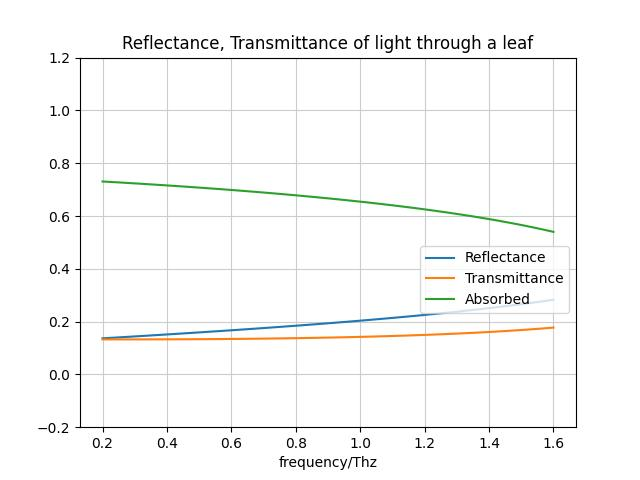
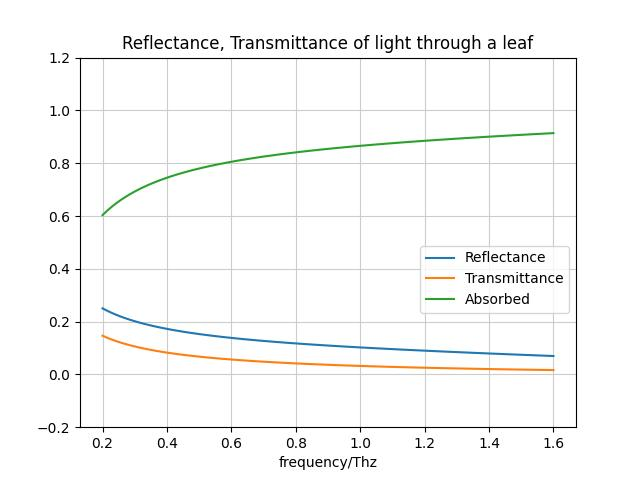
Refactor code

diff --git a/multiplatemodel_THZ.py b/multiplatemodel_THZ.py
@@ -21,79 +21,10 @@ class MultiPlateModel_THZ:
     def __init__(self, N: int, Cab, Cw, Cm):
         "Leaf Structure Parameter"
         self.N = N
-        self.frequency = np.linspace(1.6, 0.2, 100)
-        self.wavelength = 3e8 / (self.frequency * 10e12) * 1000
-        # print(self.wavelength)
-        self.refractive_index_array = np.linspace(2.1, 1.7, 100)
-        self.dry_matter_absorption_coeff = np.linspace(5, 140, 100)
-        self.water_absorption_coeff = np.linspace(100, 300, 100)
-        self.albino_absorption_coeff = np.linspace(50, 200, 100)
-        # self.scatter = abs_scatter(self.frequency, 40 ,)
-        # This k right now is the absorption coefficient.
-        # It is derived from adding:
-        # [(Chlorophyll (a+b) content of leaf) * (Specific absorption coefficient of leaf) +
-        # (Water content of leaf) * (Specific absorption coefficient of leaf) +
-        # (Dry Matter content of leaf) * (Specific absorption coefficient of leaf)] / Leaf Structure Parameter
-        # + Absorption coefficient of albino elementary layer
-        # + Scattering-induced absorption
-        a_k = (
-            Cw * self.water_absorption_coeff  # + Cm * self.dry_matter_absorption_coeff
-        ) / N
-
-        # print(get_tav_THZ(90, self.refractive_index_array, k, self.frequency))
-        # Getting the transmission coefficient k
-        # Should never hit the if statement
-        if np.all(a_k <= 0):
-            k = 1
-        else:
-            k = (1 - a_k) * np.exp(-a_k) + (a_k**2) * exp1(a_k)
-        t1 = get_tav_THZ(90, self.refractive_index_array, a_k, self.wavelength)
-        t2 = get_tav_THZ(40, self.refractive_index_array, a_k, self.wavelength)
-        print(t2)
-        print(t1)
-        x1 = 1 - t1
-        x2 = (t1) ** 2 * (k**2) * (self.refractive_index_array**2 - t1)  # * t2
-        x3 = (t1) ** 2 * k * (self.refractive_index_array**2)  # * t2
-        x4 = (self.refractive_index_array**4) - (k**2) * (
-            (self.refractive_index_array**2 - t1) ** 2
-        )
-        x5 = t2 / t1
-        x6 = x5 * (t1 - 1) + 1 - t2
-
-        "r_90/t_90: Reflectance/Transmitance for remaining plates since light is isotropic in leaf"
-        self.r_90 = x1 + x2 / x4
-        self.t_90 = x3 / x4
-        "r_alpha/t_aplha: Reflectance/Transmitance for first plate"
-        self.r_alpha = x5 * self.r_90 + x6
-        self.t_alpha = x5 * self.t_90
-        # print(f"r_90: {self.r_90}")
-        # print(f"t_90: {self.t_90}")
-        # print(f"r_alpha: {self.r_alpha}")
-        # print(f"t_alpha: {self.t_alpha}")
-
-        self.delta = self._delta()
-        self.alpha = self._alpha()
-        self.beta = self._beta()
-
-        # print(f"beta: {self.beta}")
-        # print(f"delta: {self.delta}")
-        # print(f"alpha: {self.alpha}")
-        self.b = self._b()
-
-        self.s1 = self.r_alpha * (
-            self.alpha * self.b ** (self.N - 1)
-            - (self.alpha**-1) * (self.b ** (1 - self.N))
-        ) + (self.t_alpha * self.t_90 - self.r_alpha * self.r_90) * (
-            self.b ** (self.N - 1) - self.b ** (1 - self.N)
-        )
-
-        self.s2 = self.t_alpha * (self.alpha - self.alpha**-1)
-
-        self.s3 = (
-            self.alpha * (self.b ** (self.N - 1))
-            - (self.alpha**-1) * (self.b ** (1 - self.N))
-            - self.r_90 * (self.b ** (self.N - 1) - self.b ** (1 - self.N))
-        )
+        self.Cab = Cab
+        self.Cw = Cw
+        self.Cm = Cm
+        self.calculate()
 
     def _b(self):
         return (
@@ -114,52 +45,112 @@ class MultiPlateModel_THZ:
     def _delta(self):
         return (self.t_90**2 - self.r_90**2 - 1) ** 2 - (4 * self.r_90**2)
 
-    def reflectance(self):
+    def _reflectance(self):
         return self.s1 / self.s3
 
-    def transmittance(self):
+    def _transmittance(self):
         return self.s2 / self.s3
 
+    def calculate(self):
+        self.frequency = np.linspace(0.2, 1.6, 100)
+        self.wavelength = 3e8 / (self.frequency * 10e12) * 1000
+
+        self.refractive_index_array = np.linspace(2.1, 1.7, 100)
+        self.dry_matter_absorption_coeff = np.linspace(5, 140, 100)
+        self.water_absorption_coeff = np.linspace(100, 300, 100)
+        self.albino_absorption_coeff = np.linspace(50, 200, 100)
+        # self.scatter = abs_scatter(self.frequency, 40 ,)
+        # This a_k is the absorption coefficient.
+        # It is derived from adding:
+        # [(Chlorophyll (a+b) content of leaf) * (Specific absorption coefficient of leaf) +
+        # (Water content of leaf) * (Specific absorption coefficient of leaf) +
+        # (Dry Matter content of leaf) * (Specific absorption coefficient of leaf)] / Leaf Structure Parameter
+        # + Absorption coefficient of albino elementary layer
+        # + Scattering-induced absorption
+        a_k = (
+            self.Cw * self.water_absorption_coeff
+            + self.Cm * self.dry_matter_absorption_coeff
+        ) / self.N
+
+        # Getting the transmission coefficient k
+        # Should never hit the if statement
+        if np.all(a_k <= 0):
+            k = 1
+        else:
+            k = (1 - a_k) * np.exp(-a_k) + (a_k**2) * exp1(a_k)
+        t1 = get_tav_THZ(90, self.refractive_index_array, a_k, self.wavelength)
+        t2 = get_tav_THZ(40, self.refractive_index_array, a_k, self.wavelength)
+
+        x1 = 1 - t1
+        x2 = (t1) ** 2 * (k**2) * (self.refractive_index_array**2 - t1)  # * t2
+        x3 = (t1) ** 2 * k * (self.refractive_index_array**2)  # * t2
+        x4 = (self.refractive_index_array**4) - (k**2) * (
+            (self.refractive_index_array**2 - t1) ** 2
+        )
+        x5 = t2 / t1
+        x6 = x5 * (t1 - 1) + 1 - t2
+
+        "r_90/t_90: Reflectance/Transmitance for remaining plates since light is isotropic in leaf"
+        self.r_90 = x1 + x2 / x4
+        self.t_90 = x3 / x4
+        "r_alpha/t_aplha: Reflectance/Transmitance for first plate"
+        self.r_alpha = x5 * self.r_90 + x6
+        self.t_alpha = x5 * self.t_90
+
+        self.delta = self._delta()
+        self.alpha = self._alpha()
+        self.beta = self._beta()
+
+        self.b = self._b()
+
+        self.s1 = self.r_alpha * (
+            self.alpha * self.b ** (self.N - 1)
+            - (self.alpha**-1) * (self.b ** (1 - self.N))
+        ) + (self.t_alpha * self.t_90 - self.r_alpha * self.r_90) * (
+            self.b ** (self.N - 1) - self.b ** (1 - self.N)
+        )
+
+        self.s2 = self.t_alpha * (self.alpha - self.alpha**-1)
+
+        self.s3 = (
+            self.alpha * (self.b ** (self.N - 1))
+            - (self.alpha**-1) * (self.b ** (1 - self.N))
+            - self.r_90 * (self.b ** (self.N - 1) - self.b ** (1 - self.N))
+        )
+
     def output(self):
-        return [self.frequency, self.reflectance(), self.transmittance()]
+        return [self.frequency, self._reflectance(), self._transmittance()]
+
+    def summary(self, title="test"):
+        plot, axs = plt.subplots()
+        output = self.output()
+        axs.plot(output[0], output[1], label="Reflectance")
+        axs.plot(output[0], output[2], label="Transmittance")
+
+        total = output[1] + output[2]
+        absorbed = 1 - total
+        axs.plot(output[0], absorbed, label="Absorbed")
+
+        axs.set_title(
+            f"Reflectance, Transmittance,Absorbance of light through a {title} leaf"
+        )
+        axs.set_xlabel("frequency/Thz")
+        axs.set_ylabel("")
+        axs.set_ylim(-0.2, 1.2)
+
+        axs.grid(which="both", color=(0.8, 0.8, 0.8))
+        plt.legend(loc=(1.04, 0.5))
+        plt.legend(bbox_to_anchor=(1, 0.4), loc="center right")
+        path = "output " + title + ".jpg"
+        plot.savefig(path)
 
 
 if __name__ == "__main__":
     # model = MultiPlateModel_THZ(1.518, 58, 0.00131, 0.003662)
-    model = MultiPlateModel_THZ(1.2, 30, 0.0015, 0.01)
+    # model = MultiPlateModel_THZ(1.2, 30, 0.0015, 0.01)
     # model = MultiPlateModel_THZ(2.2, 30, 0.0015, 0.0005)
     # model = PROSPECT1990(2.698, 70.8, 0.000117, 0.009327)
-    # df = pd.DataFrame(model.output())
-    output = model.output()
-    # print(f"reflectance: {output[1]}")
-    # print(f"transmittance: {output[2]}")
-
-    plot, axs = plt.subplots()
-    axs.plot(output[0], output[1], label="Reflectance")
-    axs.plot(output[0], output[2], label="Transmittance")
-
-    total = output[1] + output[2]
-    absorbed = 1 - total
-    axs.plot(output[0], absorbed, label="Absorbed")
-    # axs.hlines(y=1, xmin=400, xmax=2500, color="k")
-    # axs.plot(output[0], total, label="R+T")
-    axs.set_title("Reflectance, Transmittance of light through a leaf")
-    axs.set_xlabel("frequency/Thz")
-    axs.set_ylabel("")
-    # Set axis ranges; by default this will put major ticks every 25.
-    # axs.set_xlim(400, 2500)
-    axs.set_ylim(-0.2, 1.2)
-
-    # # Change major ticks to show every 20.
-    # axs.xaxis.set_major_locator(MultipleLocator(500))
-    # axs.yaxis.set_major_locator(MultipleLocator(0.2))
-
-    # # Change minor ticks to show every 5. (20/4 = 5)
-    # axs.xaxis.set_minor_locator(AutoMinorLocator(5))
-    # axs.yaxis.set_minor_locator(AutoMinorLocator(4))
-
-    axs.grid(which="both", color=(0.8, 0.8, 0.8))
-    plt.legend(loc=(1.04, 0.5))
-    plt.legend(bbox_to_anchor=(1, 0.4), loc="center right")
-
-    plot.savefig("test_THZ.jpg")
+    # output = model.output()
+    # model = MultiPlateModel_THZ(2.107, 35.2, 0.000244, 0.00225)  # Dry Lettuce
+    model = MultiPlateModel_THZ(2.275, 23.7, 0.0075, 0.005811)  # Fresh Rice
+    model.summary("fresh rice")

diff --git a/plot_data.py b/plot_data.py
@@ -1,7 +1,7 @@
 from data_another_style import data
 import numpy as np
 import matplotlib.pyplot as plt
-
+from multiplatemodel_THZ import MultiPlateModel_THZ
 
 database = np.array(data)
 
@@ -68,10 +68,102 @@ class PlotData:
         plt.savefig("comparison_dry_matter.jpg")
         return
 
+    def plot_varying_cw(self):
+        cw_values = [0.0001, 0.0005, 0.001, 0.005, 0.01, 0.02]
+        fig, (ax1, ax2, ax3) = plt.subplots(
+            1, 3, figsize=(12, 5), sharey=True, sharex=True
+        )
+
+        fig.suptitle("Varying Cw")
+        ax1.set_title("Reflectance")
+        ax1.set_ylim(-0.2, 1.2)
+        ax1.grid()
+        ax1.set_ylabel("Coefficient")
+
+        ax2.set_title("Transmittance")
+        ax2.set_ylim(-0.2, 1.2)
+        ax2.grid()
+        ax2.set_xlabel("Frequency (THz)")
+
+        ax3.set_title("Absorbance")
+        ax3.set_ylim(-0.2, 1.2)
+        ax3.grid()
+        for i in cw_values:
+            model = MultiPlateModel_THZ(1.2, 30, i, 0.01)
+            output = model.output()
+            absorbance = 1 - output[1] - output[2]
+            ax1.plot(output[0], output[1], label=i)
+            ax2.plot(output[0], output[2], label=i)
+            ax3.plot(output[0], absorbance, label=i)
+        ax3.legend(loc="right", bbox_to_anchor=(1.4, 0.5))
+        fig.savefig("vary_cw.jpg")
+
+    def plot_varying_cm(self):
+        cw_values = [0.0001, 0.0005, 0.001, 0.005, 0.01, 0.02]
+        fig, (ax1, ax2, ax3) = plt.subplots(
+            1, 3, figsize=(12, 5), sharey=True, sharex=True
+        )
+
+        fig.suptitle("Varying Cm")
+        ax1.set_title("Reflectance")
+        ax1.set_ylim(-0.2, 1.2)
+        ax1.grid()
+        ax1.set_ylabel("Coefficient")
+
+        ax2.set_title("Transmittance")
+        ax2.set_ylim(-0.2, 1.2)
+        ax2.grid()
+        ax2.set_xlabel("Frequency (THz)")
+
+        ax3.set_title("Absorbance")
+        ax3.set_ylim(-0.2, 1.2)
+        ax3.grid()
+        for i in cw_values:
+            model = MultiPlateModel_THZ(1.2, 30, 0.001, i)
+            output = model.output()
+            absorbance = 1 - output[1] - output[2]
+            ax1.plot(output[0], output[1], label=i)
+            ax2.plot(output[0], output[2], label=i)
+            ax3.plot(output[0], absorbance, label=i)
+        ax3.legend(loc="right", bbox_to_anchor=(1.4, 0.5))
+        fig.savefig("vary_cm.jpg")
+
+    def plot_varying_N(self):
+        N_values = [1, 1.5, 2, 2.5, 3]
+        fig, (ax1, ax2, ax3) = plt.subplots(
+            1, 3, figsize=(12, 5), sharey=True, sharex=True
+        )
+
+        fig.suptitle("Varying N")
+        ax1.set_title("Reflectance")
+        ax1.set_ylim(-0.2, 1.2)
+        ax1.grid()
+        ax1.set_ylabel("Coefficient")
+
+        ax2.set_title("Transmittance")
+        ax2.set_ylim(-0.2, 1.2)
+        ax2.grid()
+        ax2.set_xlabel("Frequency (THz)")
+
+        ax3.set_title("Absorbance")
+        ax3.set_ylim(-0.2, 1.2)
+        # ax3.set_xlim(0.2, 0.4)
+        ax3.grid()
+        for i in N_values:
+            model = MultiPlateModel_THZ(i, 30, 0.001, 0.01)
+            output = model.output()
+            absorbance = 1 - output[1] - output[2]
+            ax1.plot(output[0], output[1], label=i)
+            ax2.plot(output[0], output[2], label=i)
+            ax3.plot(output[0], absorbance, label=i)
+        ax3.legend(loc="right", bbox_to_anchor=(1.4, 0.5))
+        fig.savefig("vary_N.jpg")
+
 
 if __name__ == "__main__":
     plotter = PlotData()
-    plotter.plot_water_comparison()
-    plotter.plot_dry_matter_comparison()
+    # plotter.plot_water_comparison()
+    # plotter.plot_dry_matter_comparison()
+    plotter.plot_varying_N()
 
     pass
